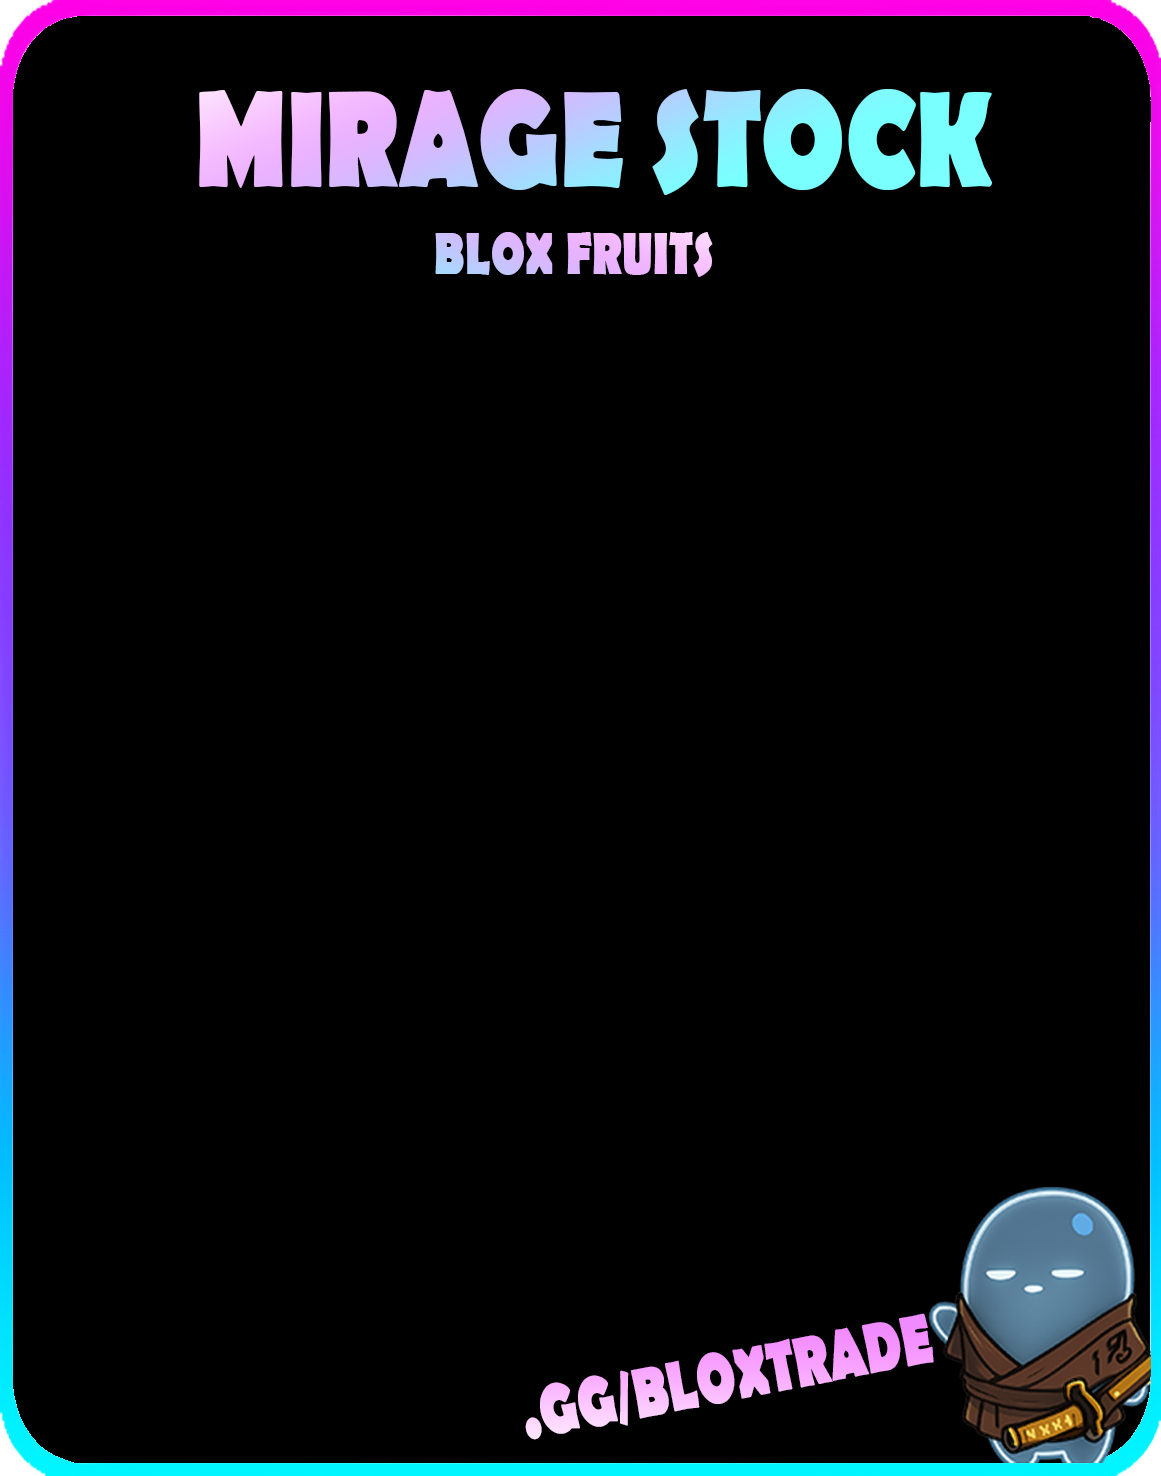
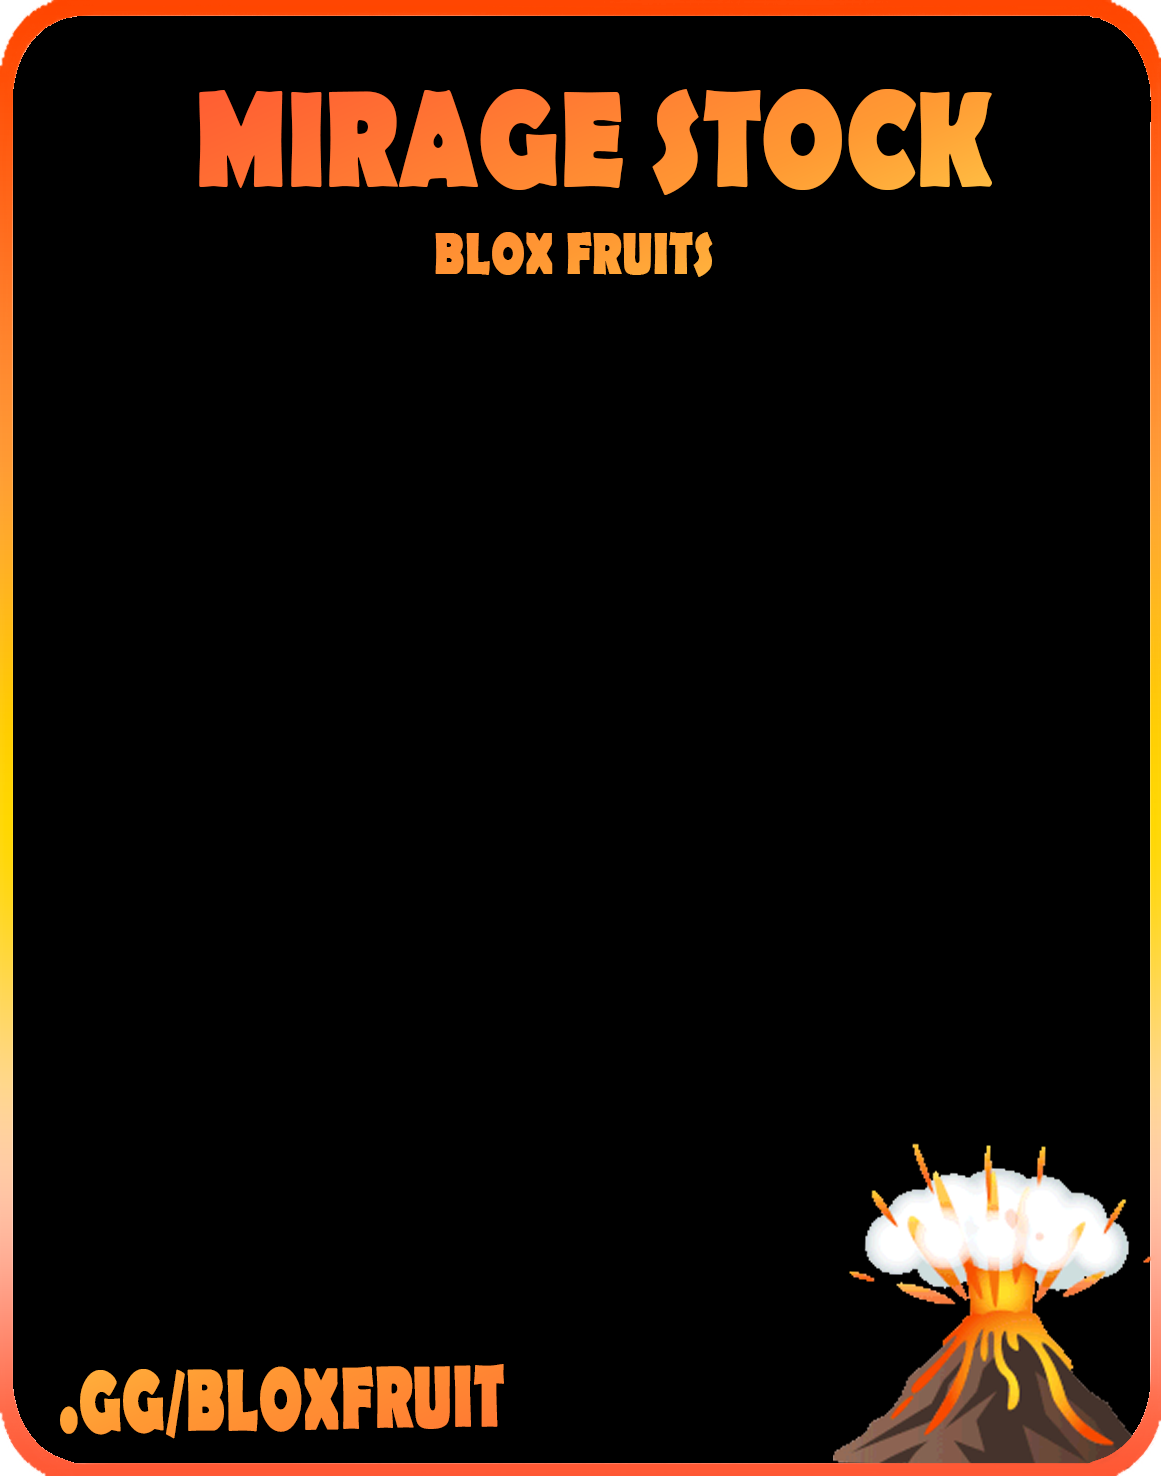
Minor Update
Updated Stock Ui
Removed PVB Module From Main (not deleted)

Changed region(s): [[0.0, 0.0, 1.0, 1.0], [0.155, 0.0623, 0.8682, 0.187]]

diff --git a/src/ui/sStockGenerator.py b/src/ui/sStockGenerator.py
@@ -9,8 +9,12 @@ NUMBER_FONT_PATH = "src/ui/font/Game Bubble.ttf"
 ITEM_IMAGE_FOLDER = "src/ui/fruit_icons"
 
 fruits = {
-    "Blade": 30000,
-    "Rocket": 30000,
+    "Rocket": 5000,
+    "Buddha" : 1200000,
+    "Tiger" : 50000000,
+    "Yeti" : 50000000,
+    "Kitsune" : 80000000,
+    "Dragon" : 150000000,   
 }
 
 def format_currency(val):
@@ -155,14 +159,14 @@ def StockImageGenerator(data_dict, stock_type="normal"):
                 img.paste(icon, (x, row_y + 30), icon)
 
             draw_neon_text(
-            img,
-            (x + icon_size // 2, row_y),
-            name.upper(),
-            item_font,
-            glow_color=(200, 100, 255, 140),
-            text_color=(245, 230, 255),     
-            anchor="mt"
-        )
+                img,
+                (x + icon_size // 2, row_y),
+                name.upper(),
+                item_font,
+                glow_color=(255, 153, 51, 140), 
+                text_color=(255, 224, 102), 
+                anchor="mt"
+            )
 
             price_str = f"${format_currency(price)}"
             price_w, _ = get_text_size(draw, price_str, price_font)
@@ -174,11 +178,13 @@ def StockImageGenerator(data_dict, stock_type="normal"):
                 (price_x + price_w / 2, price_y), 
                 price_str,
                 price_font,
-                glow_color=(190, 90, 255, 140),  
-                text_color=(245, 230, 255),  
+                glow_color=(255, 153, 51, 140), 
+                text_color=(255, 224, 102), 
                 anchor="mt"
             )
 
             item_index += 1
 
     return img
+
+#StockImageGenerator(fruits, "normal").save("CNormalStock.png", "PNG")
